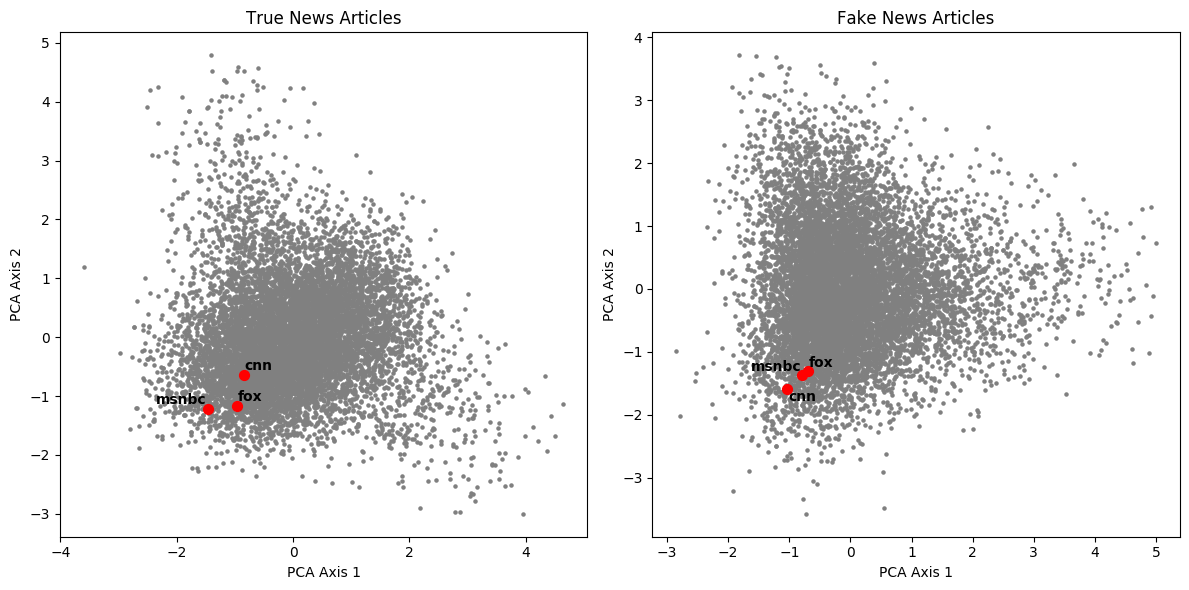
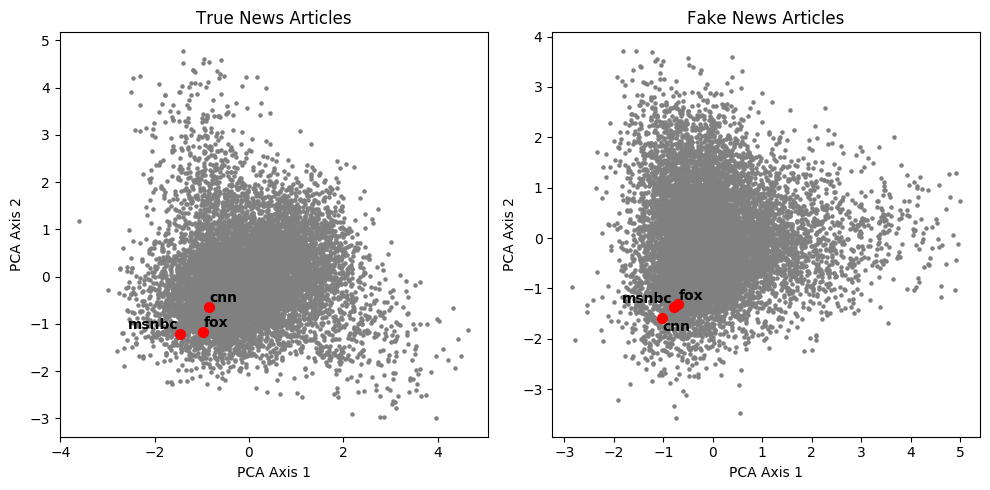
updated visualizations

diff --git a/source/visualization.py b/source/visualization.py
@@ -30,7 +30,7 @@ word_comparison(reduced_true, reduced_fake, words=["massachusetts", "texas", "ar
 word_comparison(reduced_true, reduced_fake, words=["monday", "tuesday", "wednesday", "thursday", "friday"], file_name='week_days')
 word_comparison(reduced_true, reduced_fake, words=["hillary", "crooked"], file_name='crooked_hillary')
 word_comparison(reduced_true, reduced_fake, words=["president", "leader", "puppet"], file_name='president_role')
-word_comparison(reduced_true, reduced_fake, words=["obama", "trump", "clinton", "cruz", "sander"], file_name='politician_names')
+word_comparison(reduced_true, reduced_fake, words=["obama", "trump", "clinton", "biden"], file_name='politician_names')
 word_comparison(reduced_true, reduced_fake, words=["isi", "muslim", "terrorist"], file_name='muslims')
 word_comparison(reduced_true, reduced_fake, words=["tax", "return", "foundation", "fraud"], file_name='taxes')
 word_comparison(reduced_true, reduced_fake, words=["democracy", "liberalism", "capitalism", "socialism", "liberal"], file_name='liberalism')

diff --git a/source/models/visualization_utils.py b/source/models/visualization_utils.py
@@ -7,7 +7,7 @@ from adjustText import adjust_text
 import random
 random.seed(123)
 
-double_fig_size=(12, 6)
+double_fig_size=(10, 5)
 
 # Plot loss
 def moving_average(a, n):
@@ -27,7 +27,7 @@ def plot_loss(df, max_val=8, n=50):
 
 def loss_comparison(df_loss_true, df_loss_fake):
 
-    fig = plt.figure(figsize=double_fig_size)
+    fig = plt.figure(figsize=(10,3))
 
     fig.add_subplot(1,2,1)
     plot_loss(df_loss_true)
